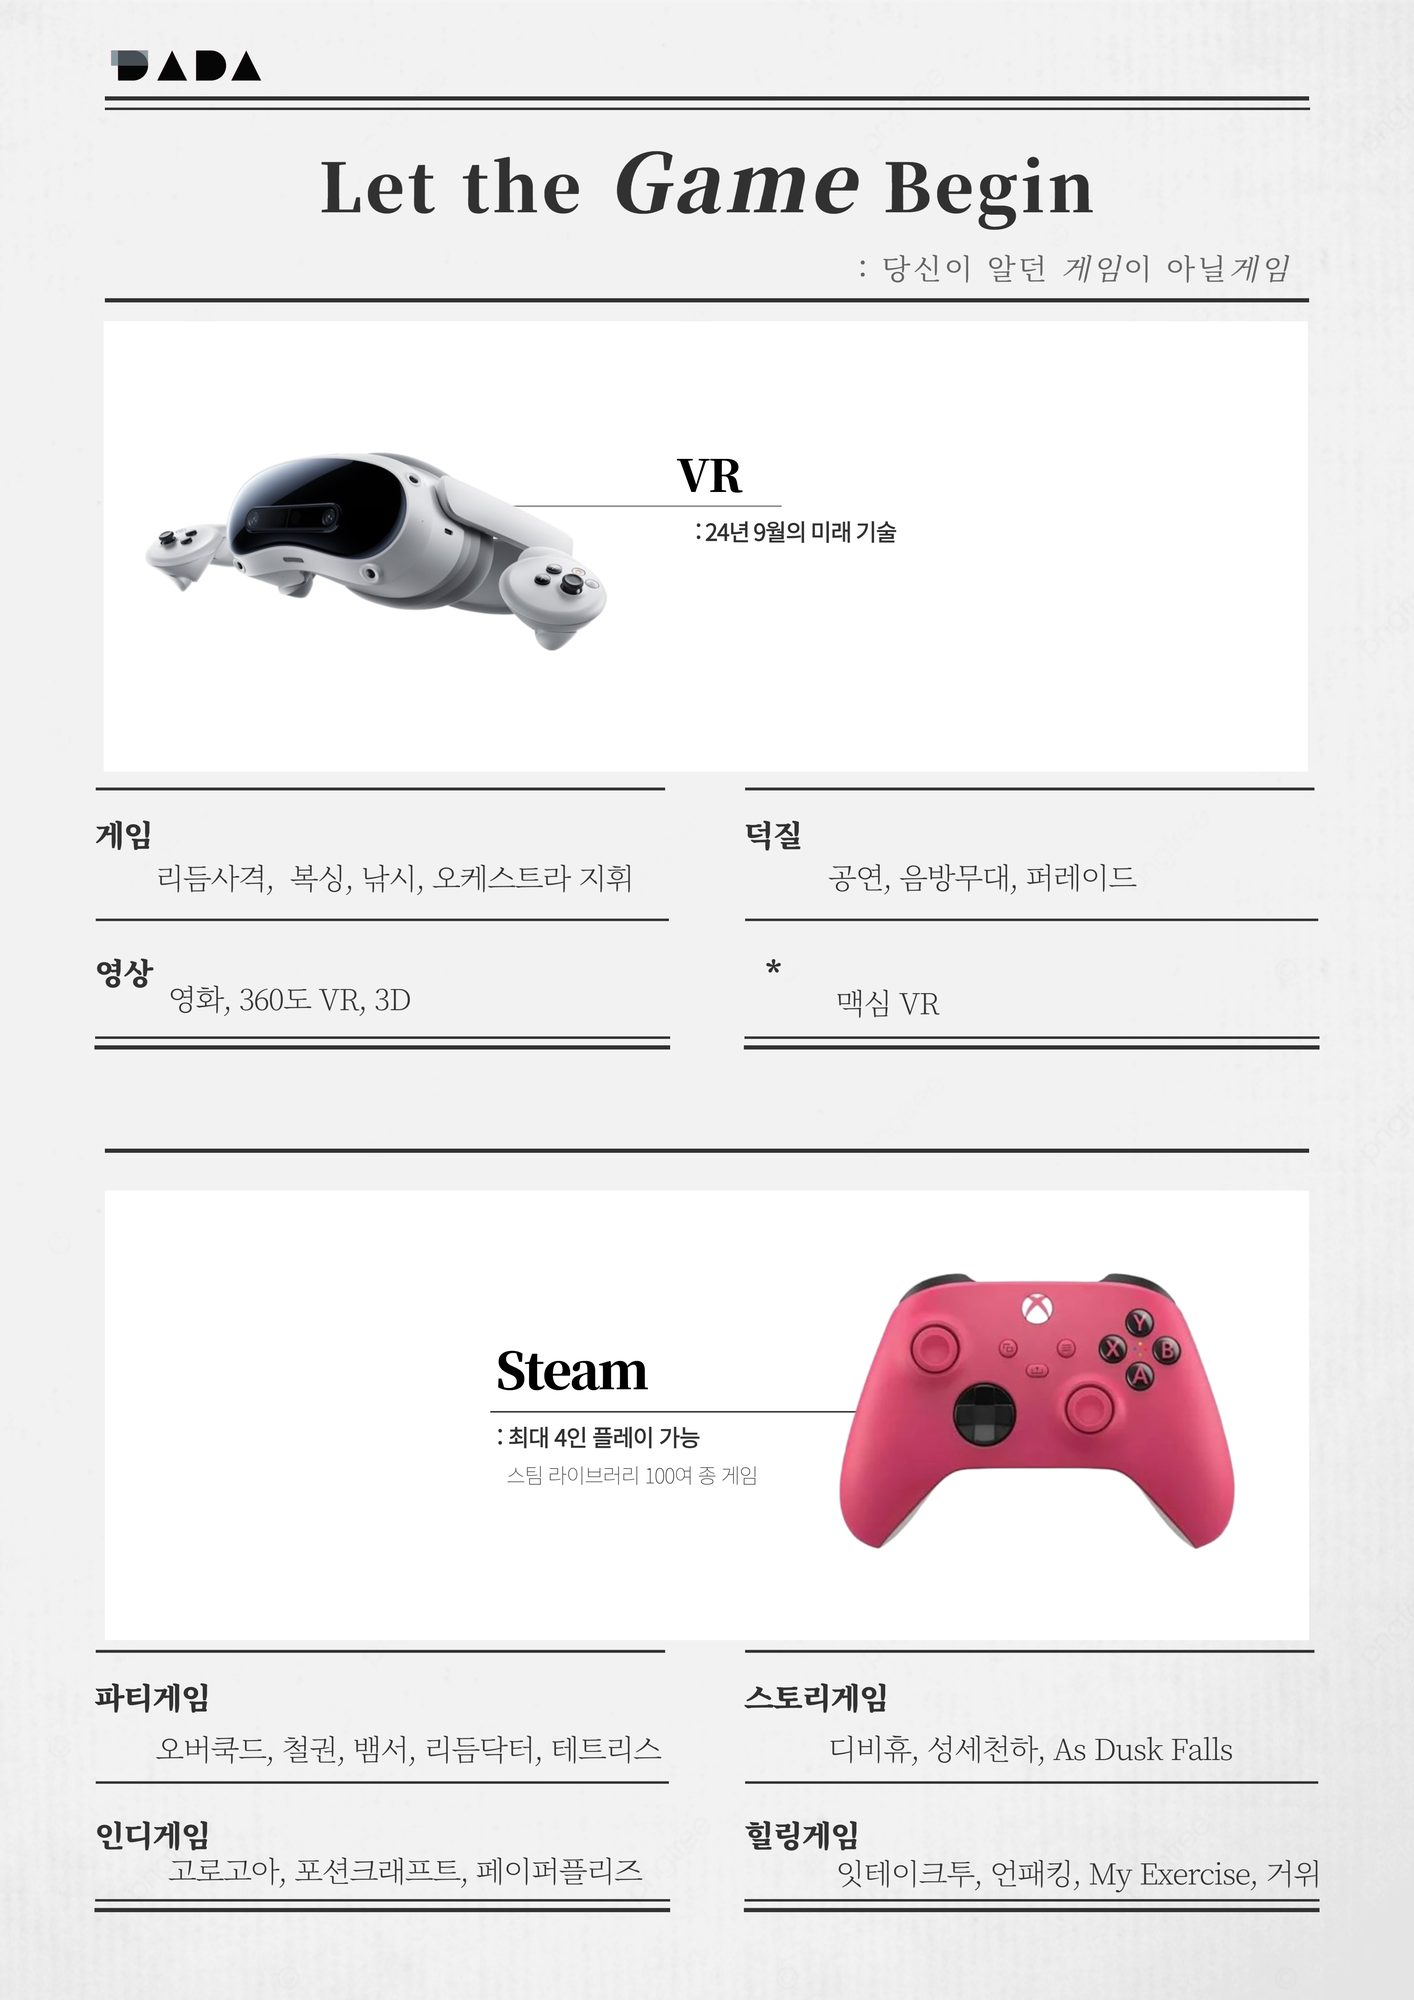
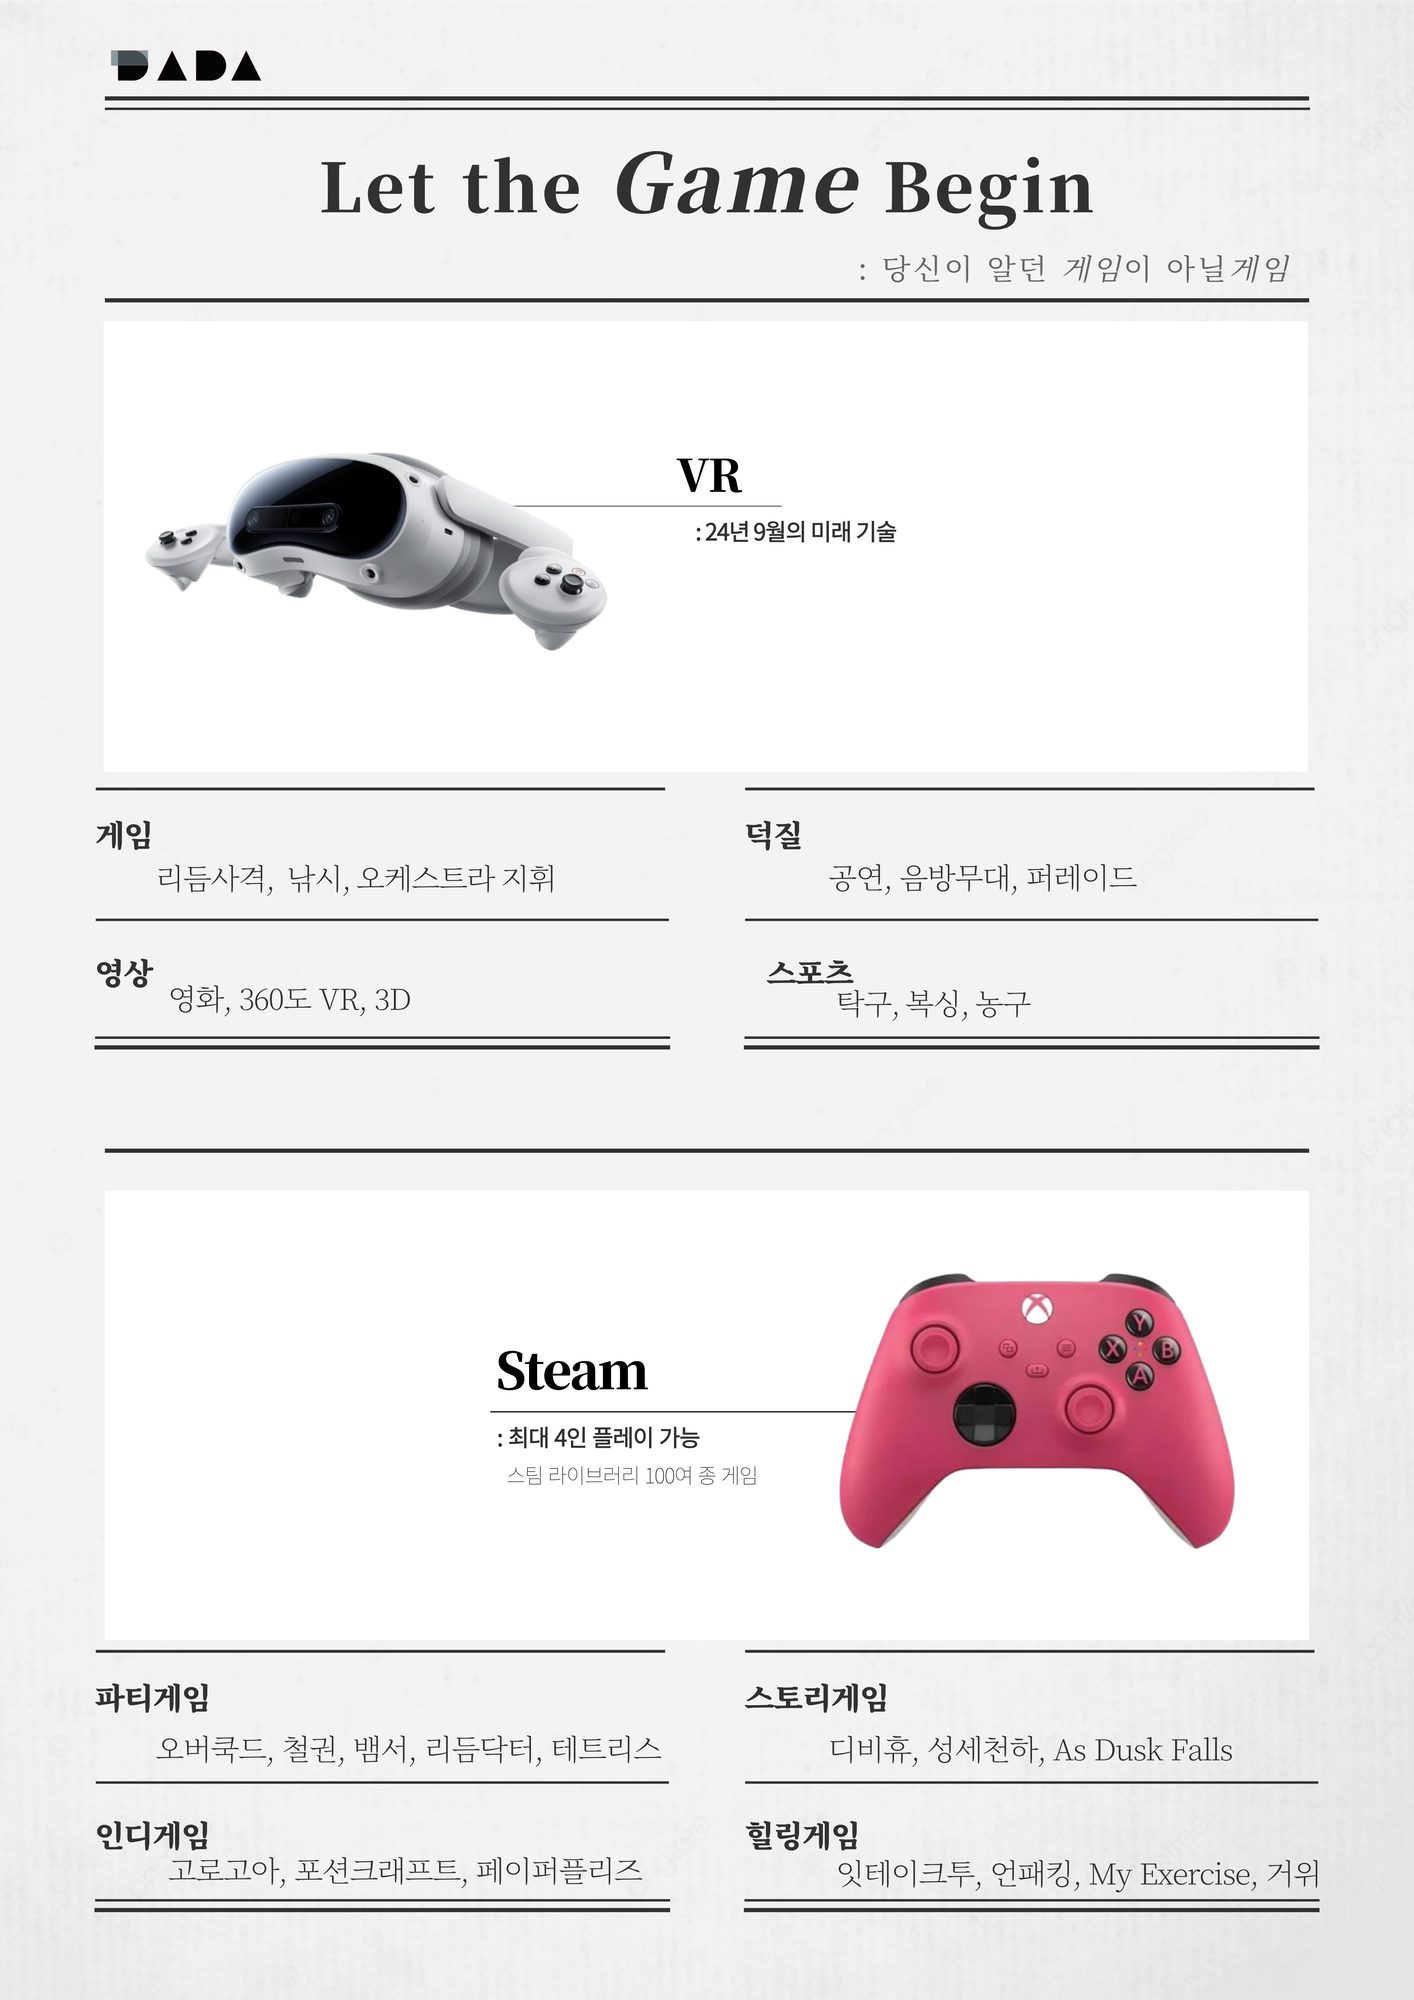
Let the Game Begin 페이지 교체 — 맥심 항목 제거
빼기로 한 항목이 편집 전 원본에 남아 있었다. 그 자리에 스포츠(탁구·복싱·농구)가
들어간 판으로 p03·t03만 갈아끼웠다. 나머지 다섯 장은 건드리지 않았다.

Chromium으로 확인: #house-3 로 열어 새 이미지 로드, 썸네일 갱신.

Claude-Session: https://claude.ai/code/session_0144pPbjgj8x1kffw4R5DREB

diff --git a/PLAN.md b/PLAN.md
@@ -127,9 +127,10 @@
 
 ### 원본에서 손볼 것
 
+`* 맥심 VR`은 2장에서 뺐다 — 그 자리에 `스포츠`(탁구 · 복싱 · 농구)가 들어갔다.
+
 | 항목 | 처리 |
 |---|---|
-| `* 맥심 VR` (2장) | **뺀다.** 실명·경력과 같은 사이트에 놓이므로 |
 | `옷구경 & 인형놀이에서 인형이 되기 (손님이)` (1장) | 손님을 전제한 문구라 다시 쓴다 |
 | `퍼스널컬러전문가자격 소유자의 진단` (1장) | 집이 아니라 사람의 자격이라 주어가 어긋난다 |
 | VR 헤드셋 · Xbox 컨트롤러 (2장) | 가져온 제품 이미지면 실물을 흰 배경에 놓고 직접 찍어 교체 |
@@ -208,7 +209,7 @@
 | 앰비언트 애니메이션 (자동차 · 새 · 구름 · 사람 · 건물) | ✅ |
 | 아트북 뷰어 | ✅ |
 | 뷰어를 여러 권 지원하도록 일반화 | ✅ |
-| **세모집 카탈로그** | ✅ 올림 — 편집 전 원본이라 교체 예정 |
+| **세모집 카탈로그** | ✅ 올림 (2장 교체 완료, 나머지 문구는 §4 표) |
 | **`/list` 정적 페이지** | 미착수 |
 | `services.json` 설명 문구 검수 (`needsReview` 12건) | 미착수 |
 | 커스텀 도메인 (`dada.town`) | 선택 |

diff --git a/ITEMS.md b/ITEMS.md
@@ -69,9 +69,8 @@
 「집 소개서」를 넘겨보는 **카탈로그**로 올린다 (설계는 PLAN §4).
 표지 1장 + 본문 5장, 이 집에서 할 수 있는 것 29가지(세부 53가지).
 
-**✅ 올렸다.** 다만 **편집 전 원본**이라 손볼 것이 남아 있다 (PLAN §4의 표).
-가장 급한 것은 3장(Let the Game Begin)의 `* 맥심 VR` — 빼기로 한 항목이 그대로 실려 있다.
-페이지는 한 장씩 교체할 수 있으므로 고친 이미지를 주면 그 파일만 갈아끼우면 된다.
+**✅ 올렸다.** `Let the Game Begin`은 맥심 항목을 뺀 판으로 교체했다.
+남은 문구 손질은 PLAN §4의 표에 있고, 페이지는 한 장씩 갈아끼울 수 있다.
 
 집 실물 사진은 쓰지 않는다. 방 구조가 읽히는 도면도 쓰지 않는다.
 
